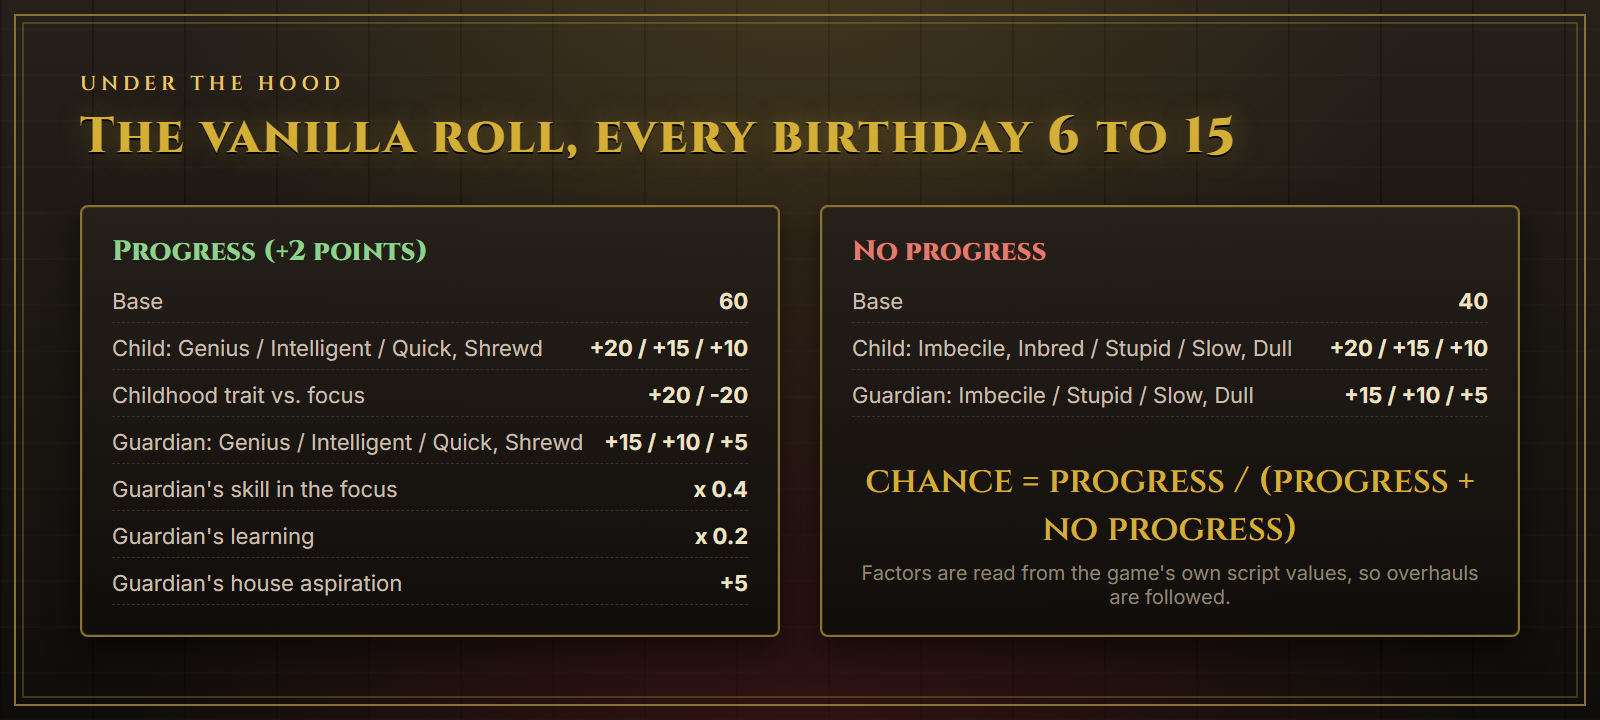
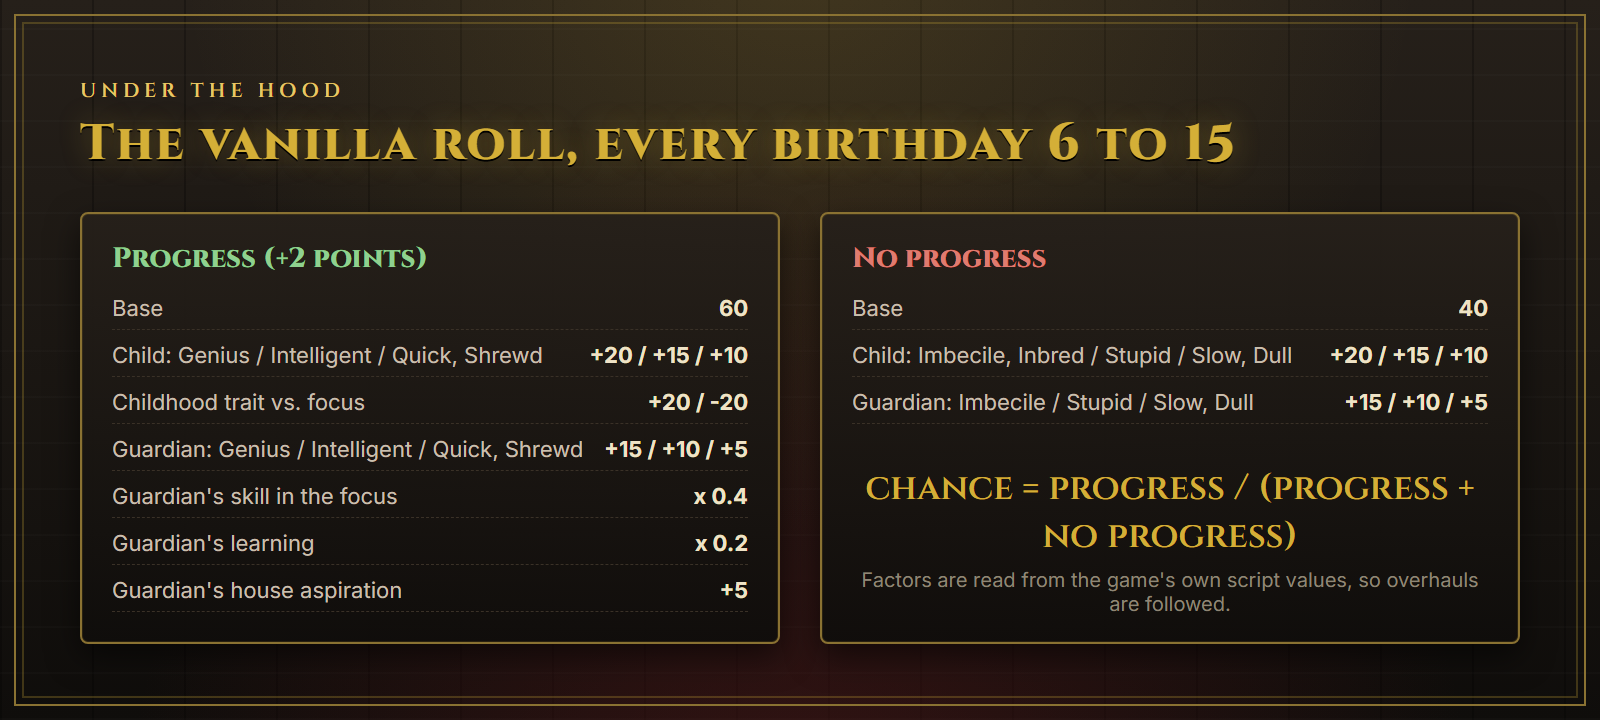
Add Nexus header and 16:9 gallery renders

diff --git a/docs/images/src/feature_search.html b/docs/images/src/feature_search.html
@@ -4,7 +4,7 @@
 <meta charset="utf-8">
 <link rel="stylesheet" href="style.css">
 <style>
-  .canvas { padding: 70px 80px; display: flex; flex-direction: column; gap: 40px; }
+  .canvas { padding: 70px 80px; display: flex; flex-direction: column; justify-content: center; gap: 40px; }
   .head .kicker { font-size: 20px; }
   .head .title { font-size: 56px; margin-top: 6px; }
   .flow { display: grid; grid-template-columns: 1fr 70px 1.25fr 70px 1fr; align-items: center; }

diff --git a/docs/images/src/feature_score.html b/docs/images/src/feature_score.html
@@ -4,7 +4,7 @@
 <meta charset="utf-8">
 <link rel="stylesheet" href="style.css">
 <style>
-  .canvas { padding: 64px 80px; display: flex; flex-direction: column; gap: 34px; }
+  .canvas { padding: 64px 80px; display: flex; flex-direction: column; justify-content: center; gap: 34px; }
   .head .kicker { font-size: 20px; }
   .head .title { font-size: 56px; margin-top: 6px; }
   .body { display: flex; gap: 44px; align-items: flex-start; }

diff --git a/docs/images/src/feature_formula.html b/docs/images/src/feature_formula.html
@@ -4,7 +4,7 @@
 <meta charset="utf-8">
 <link rel="stylesheet" href="style.css">
 <style>
-  .canvas { padding: 70px 80px; display: flex; flex-direction: column; gap: 34px; }
+  .canvas { padding: 70px 80px; display: flex; flex-direction: column; justify-content: center; gap: 34px; }
   .head .kicker { font-size: 20px; }
   .head .title { font-size: 50px; margin-top: 6px; }
   .cols { display: flex; gap: 40px; }

diff --git a/tools/render_images.py b/tools/render_images.py
@@ -11,15 +11,21 @@ ROOT = Path(__file__).resolve().parent.parent
 SRC = ROOT / "docs" / "images" / "src"
 OUT = ROOT / "docs" / "images"
 
-# name: (width, height, extra copy destination relative to ROOT or None)
-IMAGES = {
-    "banner": (1920, 480, None),
-    "feature_score": (1600, 820, None),
-    "feature_search": (1600, 720, None),
-    "feature_formula": (1600, 720, None),
-    "translate": (1600, 500, None),
-    "thumbnail": (512, 512, "thumbnail.png"),
-}
+# (source, output, width, height, scale, extra copy relative to ROOT or None)
+# Output size is width x height times scale.
+IMAGES = [
+    ("banner", "banner", 1920, 480, 1, None),
+    ("feature_score", "feature_score", 1600, 820, 1, None),
+    ("feature_search", "feature_search", 1600, 720, 1, None),
+    ("feature_formula", "feature_formula", 1600, 720, 1, None),
+    ("translate", "translate", 1600, 500, 1, None),
+    ("thumbnail", "thumbnail", 512, 512, 1, "thumbnail.png"),
+    # Nexus Mods page: header 1300x372 (rendered at 2x), gallery 1920x1080.
+    ("banner", "nexus_header", 1625, 465, 1.6, None),
+    ("feature_score", "nexus_gallery_1_score", 1600, 900, 1.2, None),
+    ("feature_search", "nexus_gallery_2_search", 1600, 900, 1.2, None),
+    ("feature_formula", "nexus_gallery_3_formula", 1600, 900, 1.2, None),
+]
 
 CANDIDATES = [
     os.environ.get("CHROME", ""),
@@ -39,16 +45,17 @@ def browser():
 
 def main():
     exe = browser()
-    names = sys.argv[1:] or list(IMAGES)
-    for name in names:
-        w, h, copy = IMAGES[name]
+    wanted = set(sys.argv[1:])
+    for src, name, w, h, scale, copy in IMAGES:
+        if wanted and name not in wanted and src not in wanted:
+            continue
         out = OUT / f"{name}.png"
         subprocess.run(
             [
                 exe, "--headless=new", "--disable-gpu", "--hide-scrollbars",
-                "--force-device-scale-factor=1", "--virtual-time-budget=4000",
+                f"--force-device-scale-factor={scale}", "--virtual-time-budget=4000",
                 f"--window-size={w},{h}", f"--screenshot={out}",
-                (SRC / f"{name}.html").as_uri(),
+                (SRC / f"{src}.html").as_uri(),
             ],
             check=True, stdout=subprocess.DEVNULL, stderr=subprocess.DEVNULL,
         )
